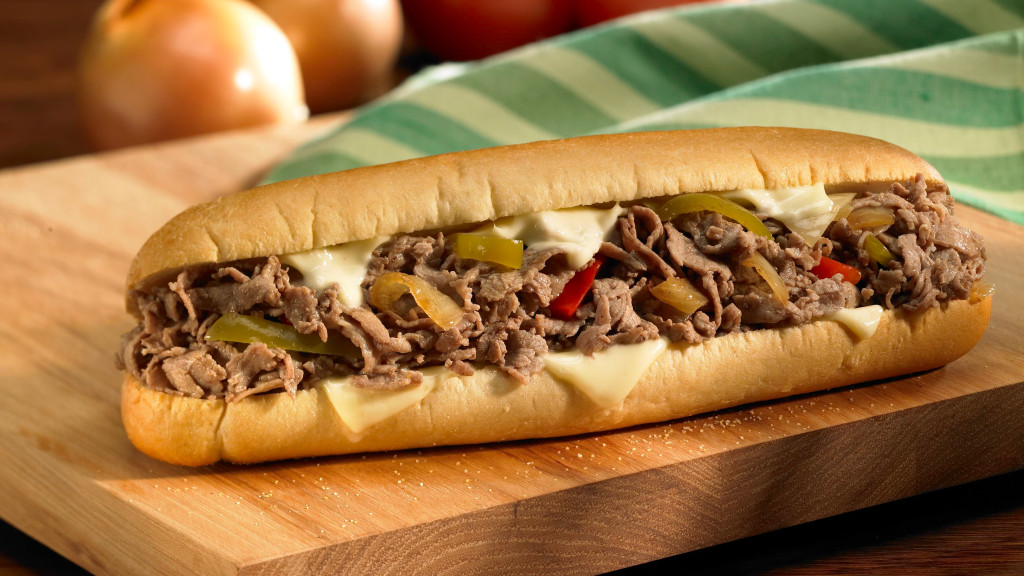
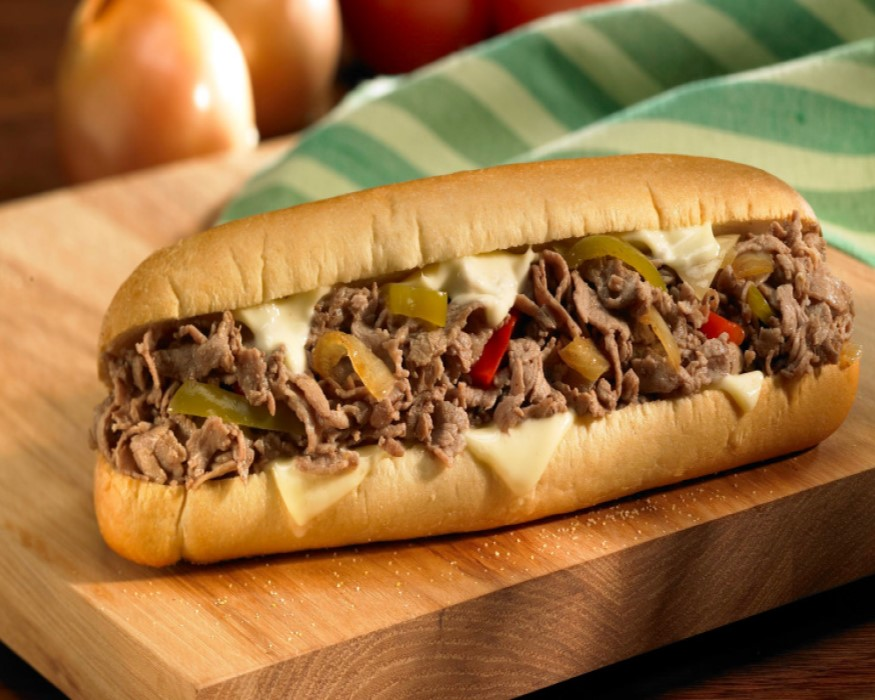
Images, text changes

diff --git a/eatery-new-master/index.html b/eatery-new-master/index.html
@@ -1,7 +1,7 @@
 <!doctype html>
 <html lang="en">
   <head>
-    <title>Spiedie Cartel Resturant</title>
+    <title>Spiedie and Rib Pit Resturant</title>
     <meta charset="utf-8">
     <meta name="viewport" content="width=device-width, initial-scale=1, shrink-to-fit=no">
 
@@ -25,7 +25,7 @@
     <header role="banner">
       <nav class="navbar navbar-expand-md navbar-dark bg-dark">
         <div class="container">
-          <a class="navbar-brand" href="index.html">Spiedie Cartel</a>
+          <a class="navbar-brand" href="index.html">Spiedie and Rib Pit</a>
           <button class="navbar-toggler" type="button" data-toggle="collapse" data-target="#navbarsExample05" aria-controls="navbarsExample05" aria-expanded="false" aria-label="Toggle navigation">
             <span class="navbar-toggler-icon"></span>
           </button>
@@ -73,7 +73,7 @@
           <div class="row slider-text align-items-center justify-content-center">
             <div class="col-md-8 text-center col-sm-12 element-animate">
               <h1>Expert Chefs</h1>
-              <p class="mb-5">Meet our chefs! They are the ones who help us help you. They come from all walks of life, but in the end, they are family. Much love from the Cartel!</p>
+              <p class="mb-5">Meet our chefs! They are the ones who help us help you. They come from all walks of life, but in the end, they are family. Much love from the Rib Pit!</p>
               <p><a href="#" class="btn btn-white btn-outline-white">Get Started</a></p>
             </div>
           </div>
@@ -109,7 +109,7 @@
           <div class="col-md-6 mb-4 mb-lg-0 col-lg-3 text-center">
             <span class="flaticon-fish display-4 text-black d-block mb-4"></span>
             <h4 class="mb-4 text-primary">Sea Foods</h4>
-            <p>NEED TO CHANGE ICON.</p>
+            <p>Yes, we even do a little seafood, this is relativly new, so bear with us please.</p>
           </div>
           <div class="col-md-6 mb-4 mb-lg-0 col-lg-3 text-center">
             <span class="flaticon-coffee-cup display-4 text-black d-block mb-4"></span>
@@ -141,31 +141,31 @@
       <div class="owl-carousel centernonloop">
         <a href="#" class="item-dishes">
           <div class="text">
-            <p class="dishes-price">$11.50</p>
+            <p class="dishes-price">$7.99</p>
             <h2 class="dishes-heading">Classic Chicken Spedide</h2>
           </div>
           <img src="custom/img/spiediesandwich.jpg" alt="Chicken sandwich" class="img-fluid">
         </a>
         <a href="#" class="item-dishes">
           <div class="text">
-            <p class="dishes-price">$12.00</p>
-            <h2 class="dishes-heading">Baked broccoli</h2>
+            <p class="dishes-price">$8.99</p>
+            <h2 class="dishes-heading">Endwell Spiedie sandwich</h2>
           </div>
-          <img src="img/dishes_2.jpg" alt="" class="img-fluid">
+          <img src="custom/img/endwell.jpg" alt="Endwell Sandwich" class="img-fluid">
         </a>
         <a href="#" class="item-dishes">
           <div class="text">
-            <p class="dishes-price">$11.00</p>
-            <h2 class="dishes-heading">Spicy meatballs</h2>
+            <p class="dishes-price">$9.19</p>
+            <h2 class="dishes-heading">Philly Cheesesteak</h2>
           </div>
-          <img src="img/dishes_3.jpg" alt="" class="img-fluid">
+          <img src="custom/img/phillycheesesteak.jpg" alt="Philly Cheesesteak" class="img-fluid">
         </a>
         <a href="#" class="item-dishes">
           <div class="text">
-            <p class="dishes-price">$12.00</p>
-            <h2 class="dishes-heading">Eggplant parmigiana</h2>
+            <p class="dishes-price">$17.00</p>
+            <h2 class="dishes-heading">Spiedie Platter</h2>
           </div>
-          <img src="img/dishes_4.jpg" alt="" class="img-fluid">
+          <img src="custom/img/ny-times-spiedies.webp" alt="" class="img-fluid">
         </a>
       </div>
     </section> <!-- .section -->
@@ -188,58 +188,47 @@
         <div class="row no-gutters">
           <div class="col-md-6">
             <div class="sched d-block d-lg-flex">
-              <div class="bg-image order-2" style="background-image: url('img/dishes_4.jpg');"></div>
+              <div class="bg-image order-2" style="background-image: url('custom/img/spiediesandwich.jpg');"></div>
               <div class="text order-1">
-                <h3>Grilled Caesar salad, shaved reggiano</h3>
-                <p>Lorem ipsum dolor sit amet consectetur adipisicing elit. Architecto illo delectus...</p>
-                <p class="text-primary h3">$12.00</p>
+                <h3>Classic Chicken Spiedies</h3>
+                <p>You cannot go wrong with a classic. The chicken spiedie sandwich is a staple of our company. Marininated in an array of spices, it'll make your mouth water.</p>
+                <p class="text-primary h3">$7.99</p>
               </div>
 
             </div>
 
             <div class="sched d-block d-lg-flex">
-              <div class="bg-image" style="background-image: url('img/dishes_1.jpg');"></div>
+              <div class="bg-image" style="background-image: url('custom/img/phillycheese.jpg');"></div>
               <div class="text">
-                <h3>Spicy Calamari and beans</h3>
-                <p>Lorem ipsum dolor sit amet consectetur adipisicing elit. Architecto illo delectus...</p>
-                <p class="text-primary h3">$12.00</p>
-
+                <h3>Homemade Philly Cheese</h3>
+                <p>Maybe Spiedies aren't your thing, fear not, for there lies the Philly Cheesesteak, made with fresh peppers, onions and of course cheese.</p>
+                <p class="text-primary h3">$9.19</p>
               </div>
-
             </div>
-
           </div>
 
           <div class="col-md-6">
             <div class="sched d-block d-lg-flex">
-              <div class="bg-image order-2" style="background-image: url('img/dishes_2.jpg');"></div>
+              <div class="bg-image order-2" style="background-image: url('custom/img/pitfries.jpg');"></div>
               <div class="text order-1">
-                <h3>Bacon wrapped wild gulf prawns</h3>
-                <p>Lorem ipsum dolor sit amet consectetur adipisicing elit. Architecto illo delectus...</p>
-                <p class="text-primary h3">$18.00</p>
-
+                <h3>Golden Sticks of Awesomeness</h3>
+                <p>Who doesn't like fries? Fries are available in two sizes and the standard comdiments are available for free.</p>
+                <p class="text-primary h3">$4.29</p>
               </div>
-
             </div>
 
             <div class="sched d-block d-lg-flex">
-              <div class="bg-image" style="background-image: url('img/dishes_3.jpg');"></div>
+              <div class="bg-image" style="background-image: url('custom/img/onionrings.jpg');"></div>
               <div class="text">
-                <h3>Seared ahi tuna fillet*, honey-ginger sauce</h3>
-                <p>Lorem ipsum dolor sit amet consectetur adipisicing elit. Architecto illo delectus...</p>
-                <p class="text-primary h3">$16.00</p>
-
+                <h3>Those Circle Looking Things</h3>
+                <p>If fries or Spiedies aren't your style, then our beer-battered onion rings are a solid choice. We also do classic deep-fried onion rings.</p>
+                <p class="text-primary h3">$5.09</p>
               </div>
-
             </div>
-
           </div>
         </div>
-
-
       </div>
     </section> <!-- .section -->
-
 
 
     <section class="section element-animate">
@@ -264,7 +253,7 @@
                 <img src="img/person_2.jpg" alt="" class="mr-4">
                 <div class="author-info">
                   <h4>Lucas Thorne</h4>
-                  <p>CEO, XYZ Company</p>
+                  <p>Master Chef</p>
                 </div>
               </div>
             </blockquote>
@@ -276,7 +265,7 @@
                 <img src="img/person_1.jpg" alt="" class="mr-4">
                 <div class="author-info">
                   <h4>Charlotte King</h4>
-                  <p>CEO, XYZ Company</p>
+                  <p>The Boss' Daughter</p>
                 </div>
               </div>
             </blockquote>
@@ -288,7 +277,7 @@
                 <img src="img/person_3.jpg" alt="" class="mr-4">
                 <div class="author-info">
                   <h4>Carlee Carmine</h4>
-                  <p>CEO, XYZ Company</p>
+                  <p>Sous Chef</p>
                 </div>
               </div>
             </blockquote>
@@ -313,13 +302,13 @@
         <div class="row">
           <div class="col-md-6">
             <div class="blog d-block d-lg-flex">
-              <div class="bg-image" style="background-image: url('img/dishes_2.jpg');"></div>
+              <div class="bg-image" style="background-image: url('custom/img/spiedie-and-rib-pit.jpg');"></div>
               <div class="text">
-                <h3>Chicken Spiedie Sandwich</h3>
+                <h3>Our Resturant</h3>
                 <p class="sched-time">
-                  <span><span class="fa fa-calendar"></span> April 22, 2015</span> <br>
+                  <span><span class="fa fa-calendar"></span> July 23rd, 1998</span> <br>
                 </p>
-                <p>Lorem ipsum dolor sit amet consectetur adipisicing elit. Architecto illo delectus...</p>
+                <p>Spiedie and Rib Pit was founded in 1993, when our owners made the first store right here in this very location. Small, compact, but gives off the family vibe.</p>
 
                 <p><a href="#" class="btn btn-primary btn-sm">Read More</a></p>
 
@@ -329,13 +318,13 @@
           </div>
           <div class="col-md-6">
             <div class="blog d-block d-lg-flex">
-              <div class="bg-image" style="background-image: url('img/dishes_1.jpg');"></div>
+              <div class="bg-image" style="background-image: url('custom/img/logo.jpg');"></div>
               <div class="text">
-                <h3>Endwell Spiedie Sandwich</h3>
+                <h3>Our Brand</h3>
                 <p class="sched-time">
-                  <span><span class="fa fa-calendar"></span> April 22, 2015</span> <br>
+                  <span><span class="fa fa-calendar"></span> April 22, 2011</span> <br>
                 </p>
-                <p>Lorem ipsum dolor sit amet consectetur adipisicing elit. Architecto illo delectus...</p>
+                <p>Over the course of twenty-five years, we have rebranded our logo and this is our newest rendition. Our history is ever evolving, thanks to you.</p>
 
                 <p><a href="#" class="btn btn-primary btn-sm">Read More</a></p>
 
